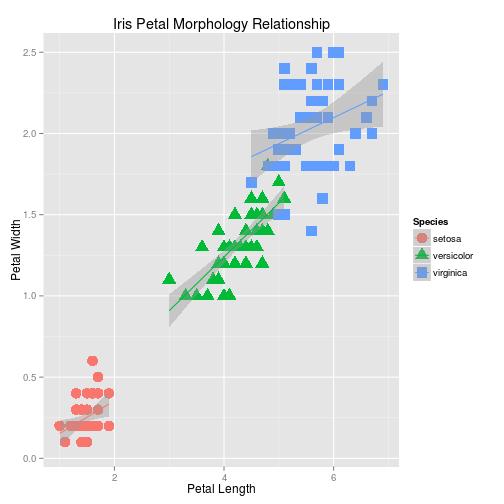
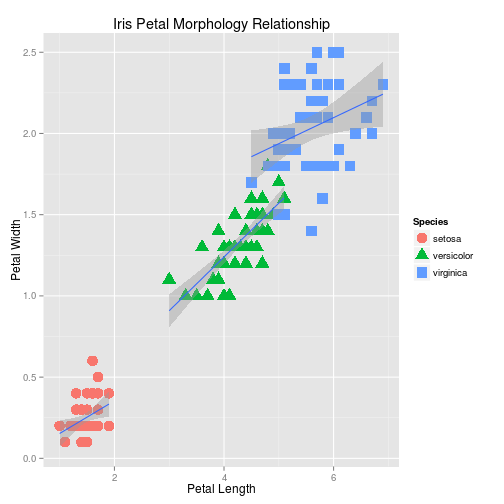
automatic build of site

diff --git a/_posts/2015-01-14-01-Introduction.md b/_posts/2015-01-14-01-Introduction.md
@@ -282,6 +282,8 @@ available.packages()
 update.packages()
 {% endhighlight %}
 
+Lastly, a quick note on pacakges and libraries.  You will often hear people use the terms interchangably.  This is not correct.  A package is what is submitted to CRAN, it is what contains a group of functions that address a common problem, and it is what has allowed R to expand.  A library is, more or less, where you packages are stored.  You have a path to that library and this is where R puts new packages that you install (e.g. via `install.packages()`).  These two terms are related, but most certainly different.  Apologies up front if I slip and use one when I actually mean the other...
+
 ##Help!
 Being able to find help and interpret that help is probably one of the most important skills for learning a new language.  R is no different. Help on functions and packages can be accessed directly from R, can be found on CRAN and other official R resources, searched on Google, found on StackOverflow, or from any number of fantastic online resources. I will cover a few of these here. 
 
@@ -320,6 +322,8 @@ As I mention earlier, there are TOO many resources to mention and everyone has t
 - [Advanced R](http://adv-r.had.co.nz/): Web home of Hadley Wickham's new book.  Gets into more advanced topics, but also covers the basics in a great way.
 - [Why R is Hard To Learn](http://r4stats.com/articles/why-r-is-hard-to-learn/): Long and detailed blog post discussing some of the challenges people often face when learning R.
 - [Other Resources](http://scicomp2014.edc.uri.edu/resources.html): A list I helped compile for a URI Class.
+- [CRAN Cheatsheets](http://cran.r-project.org/doc/contrib/Short-refcard.pdf): A good cheat sheet from the official source
+- [RStudio Cheatsheets](http://www.rstudio.com/resources/cheatsheets/): Additional cheat sheets from RStudio.  I am especially fond of the data wrangling one.
 
 
 

diff --git a/rmd_posts/2015-01-14-01-Introduction.md b/rmd_posts/2015-01-14-01-Introduction.md
@@ -282,6 +282,8 @@ available.packages()
 update.packages()
 {% endhighlight %}
 
+Lastly, a quick note on pacakges and libraries.  You will often hear people use the terms interchangably.  This is not correct.  A package is what is submitted to CRAN, it is what contains a group of functions that address a common problem, and it is what has allowed R to expand.  A library is, more or less, where you packages are stored.  You have a path to that library and this is where R puts new packages that you install (e.g. via `install.packages()`).  These two terms are related, but most certainly different.  Apologies up front if I slip and use one when I actually mean the other...
+
 ##Help!
 Being able to find help and interpret that help is probably one of the most important skills for learning a new language.  R is no different. Help on functions and packages can be accessed directly from R, can be found on CRAN and other official R resources, searched on Google, found on StackOverflow, or from any number of fantastic online resources. I will cover a few of these here. 
 
@@ -320,6 +322,8 @@ As I mention earlier, there are TOO many resources to mention and everyone has t
 - [Advanced R](http://adv-r.had.co.nz/): Web home of Hadley Wickham's new book.  Gets into more advanced topics, but also covers the basics in a great way.
 - [Why R is Hard To Learn](http://r4stats.com/articles/why-r-is-hard-to-learn/): Long and detailed blog post discussing some of the challenges people often face when learning R.
 - [Other Resources](http://scicomp2014.edc.uri.edu/resources.html): A list I helped compile for a URI Class.
+- [CRAN Cheatsheets](http://cran.r-project.org/doc/contrib/Short-refcard.pdf): A good cheat sheet from the official source
+- [RStudio Cheatsheets](http://www.rstudio.com/resources/cheatsheets/): Additional cheat sheets from RStudio.  I am especially fond of the data wrangling one.
 
 
 

diff --git a/_posts/2015-01-15-05-Analyze.md b/_posts/2015-01-15-05-Analyze.md
@@ -38,13 +38,13 @@ xy_tt
 ## 	Welch Two Sample t-test
 ## 
 ## data:  x and y
-## t = -8.224, df = 37.771, p-value = 6.074e-10
+## t = -7.6409, df = 38.691, p-value = 3.024e-09
 ## alternative hypothesis: true difference in means is not equal to 0
 ## 95 percent confidence interval:
-##  -11.917073  -7.208314
+##  -8.872571 -5.157561
 ## sample estimates:
 ## mean of x mean of y 
-##  2.289831 11.852525
+##  2.845283  9.860349
 {% endhighlight %}
 
 `t.test()` can also take a formula specification as input. I mentioned this briefly in the previous lesson.  At it's simplest a formula takes the form of `y ~ x`.  The tilde is used in place of the equals sign.  For a t-test that is all we need to know.  
@@ -255,7 +255,7 @@ summary(lm_aq2)
 ## F-statistic: 54.83 on 3 and 107 DF,  p-value: < 2.2e-16
 {% endhighlight %}
 
-All of your standard modelling approaches (and then some) are available in R including typical variable selection techniques (e.g. stepwise with AIC) and logistic regression. which is implemented with the rest of the generalized linear models in `glm()`.  More involved or newer approaches will be implemented (most likely) with additional packages.
+All of your standard modelling approaches (and then some) are available in R including typical variable selection techniques (e.g. stepwise with AIC) and logistic regression, which is implemented with the rest of the generalized linear models in `glm()`.  Interaction terms can be specified directly in the model, but there are several ways to do so (x*y, x:y, x^y).  Lastly, if you are interested in more involved or newer approaches these will be implemented (most likely) with additional packages and will not be available in base R or `stats`.
 
 
 

diff --git a/rmd_posts/2015-01-15-05-Analyze.md b/rmd_posts/2015-01-15-05-Analyze.md
@@ -38,13 +38,13 @@ xy_tt
 ## 	Welch Two Sample t-test
 ## 
 ## data:  x and y
-## t = -8.224, df = 37.771, p-value = 6.074e-10
+## t = -7.6409, df = 38.691, p-value = 3.024e-09
 ## alternative hypothesis: true difference in means is not equal to 0
 ## 95 percent confidence interval:
-##  -11.917073  -7.208314
+##  -8.872571 -5.157561
 ## sample estimates:
 ## mean of x mean of y 
-##  2.289831 11.852525
+##  2.845283  9.860349
 {% endhighlight %}
 
 `t.test()` can also take a formula specification as input. I mentioned this briefly in the previous lesson.  At it's simplest a formula takes the form of `y ~ x`.  The tilde is used in place of the equals sign.  For a t-test that is all we need to know.  
@@ -255,7 +255,7 @@ summary(lm_aq2)
 ## F-statistic: 54.83 on 3 and 107 DF,  p-value: < 2.2e-16
 {% endhighlight %}
 
-All of your standard modelling approaches (and then some) are available in R including typical variable selection techniques (e.g. stepwise with AIC) and logistic regression. which is implemented with the rest of the generalized linear models in `glm()`.  More involved or newer approaches will be implemented (most likely) with additional packages.
+All of your standard modelling approaches (and then some) are available in R including typical variable selection techniques (e.g. stepwise with AIC) and logistic regression, which is implemented with the rest of the generalized linear models in `glm()`.  Interaction terms can be specified directly in the model, but there are several ways to do so (x*y, x:y, x^y).  Lastly, if you are interested in more involved or newer approaches these will be implemented (most likely) with additional packages and will not be available in base R or `stats`.
 
 
 

diff --git a/_posts/2015-01-15-07-Visualize.md b/_posts/2015-01-15-07-Visualize.md
@@ -128,11 +128,24 @@ And if we are interested in the regressions by group we could do it this way.
 {% highlight r %}
 iris_scatter_lm_group<-iris_scatter+
                         geom_smooth(method="lm", 
-                                    aes(colour=Species,shape=Species))
+                                    aes(group=Species))
 iris_scatter_lm_group
 {% endhighlight %}
 
 ![plot of chunk iris_lm_groups]({{ site.url }}/figure/iris_lm_groups-1.png) 
+
+Or, if we wanted our regression lines to match the color.
+
+
+{% highlight r %}
+iris_scatter_lm_color<-iris_scatter+
+                        geom_smooth(method="lm", 
+                                    aes(color=Species))
+iris_scatter_lm_color
+{% endhighlight %}
+
+![plot of chunk iris_lm_color]({{ site.url }}/figure/iris_lm_color-1.png) 
+
 
 You'll notice that I had to specify the `aes()` again, but for `geom_smooth()`.  We only specified the x and y in the original `ggplot` object, so if want to do something different in the subsequent functions we need to overwrite it for the function in which we want a different mapping (i.e. groups).
 
@@ -342,7 +355,7 @@ tp_chla +
 - [Offical `ggplot2` documentation](http://docs.ggplot2.org/current/): The authoritative source.  Also many great examples.
 
 ###R Data Viz Examples
-- Base examples: [R Gallery]()
+- Cool rCharts examples: [rCharts Gallery](http://rcharts.io/gallery/)
 - ggplot examples: [Google Image Search](http://goo.gl/P0q2Lx)
 - R Data Viz, gone wrong:[Accidental aRt](http://accidental-art.tumblr.com) 
 

diff --git a/rmd_posts/2015-01-15-07-Visualize.md b/rmd_posts/2015-01-15-07-Visualize.md
@@ -128,11 +128,24 @@ And if we are interested in the regressions by group we could do it this way.
 {% highlight r %}
 iris_scatter_lm_group<-iris_scatter+
                         geom_smooth(method="lm", 
-                                    aes(colour=Species,shape=Species))
+                                    aes(group=Species))
 iris_scatter_lm_group
 {% endhighlight %}
 
 ![plot of chunk iris_lm_groups]({{ site.url }}/figure/iris_lm_groups-1.png) 
+
+Or, if we wanted our regression lines to match the color.
+
+
+{% highlight r %}
+iris_scatter_lm_color<-iris_scatter+
+                        geom_smooth(method="lm", 
+                                    aes(color=Species))
+iris_scatter_lm_color
+{% endhighlight %}
+
+![plot of chunk iris_lm_color]({{ site.url }}/figure/iris_lm_color-1.png) 
+
 
 You'll notice that I had to specify the `aes()` again, but for `geom_smooth()`.  We only specified the x and y in the original `ggplot` object, so if want to do something different in the subsequent functions we need to overwrite it for the function in which we want a different mapping (i.e. groups).
 
@@ -342,7 +355,7 @@ tp_chla +
 - [Offical `ggplot2` documentation](http://docs.ggplot2.org/current/): The authoritative source.  Also many great examples.
 
 ###R Data Viz Examples
-- Base examples: [R Gallery]()
+- Cool rCharts examples: [rCharts Gallery](http://rcharts.io/gallery/)
 - ggplot examples: [Google Image Search](http://goo.gl/P0q2Lx)
 - R Data Viz, gone wrong:[Accidental aRt](http://accidental-art.tumblr.com) 
 

diff --git a/_posts/2015-01-14-02-Get.md b/_posts/2015-01-14-02-Get.md
@@ -1079,7 +1079,7 @@ install.packages("gdata")
 {% highlight text %}
 ## 
 ## The downloaded source packages are in
-## 	'/tmp/RtmpBjVXPa/downloaded_packages'
+## 	'/tmp/RtmpgepLWe/downloaded_packages'
 {% endhighlight %}
 
 
@@ -1156,7 +1156,7 @@ From here on out I hope to have these exercises begin to build on each other. We
 
 1. Create a new script in RStudio.  Name it "nla_analysis.R"
 2. As you write the script comment as you go.
-3. Add commands to your script that creates two data frames: One named `nla_wq` that contains all of the data located at http://bit.ly/nla_wq and another named `nla_sites` from http://bit.ly/nla_sites.
+3. Add commands to your script that creates two data frames: One named `nla_wq` that contains all of the data located at http://bit.ly/nla_wq and another named `nla_sites` from http://bit.ly/nla_sites.  Both of these links point to .csv files on the NLA site.
 4. Add commands to your script that will provides details on the structure (hint: `str`) of each newly created data frame
 5. Run the script and make sure it doesn't throw any errors and you do in fact get the two data frames.
 6. If you still have some time, explore the data frames using some of the commands we covered.  This part does not need to be included in the script.

diff --git a/rmd_posts/2015-01-14-02-Get.md b/rmd_posts/2015-01-14-02-Get.md
@@ -1079,7 +1079,7 @@ install.packages("gdata")
 {% highlight text %}
 ## 
 ## The downloaded source packages are in
-## 	'/tmp/RtmpBjVXPa/downloaded_packages'
+## 	'/tmp/RtmpgepLWe/downloaded_packages'
 {% endhighlight %}
 
 
@@ -1156,7 +1156,7 @@ From here on out I hope to have these exercises begin to build on each other. We
 
 1. Create a new script in RStudio.  Name it "nla_analysis.R"
 2. As you write the script comment as you go.
-3. Add commands to your script that creates two data frames: One named `nla_wq` that contains all of the data located at http://bit.ly/nla_wq and another named `nla_sites` from http://bit.ly/nla_sites.
+3. Add commands to your script that creates two data frames: One named `nla_wq` that contains all of the data located at http://bit.ly/nla_wq and another named `nla_sites` from http://bit.ly/nla_sites.  Both of these links point to .csv files on the NLA site.
 4. Add commands to your script that will provides details on the structure (hint: `str`) of each newly created data frame
 5. Run the script and make sure it doesn't throw any errors and you do in fact get the two data frames.
 6. If you still have some time, explore the data frames using some of the commands we covered.  This part does not need to be included in the script.

diff --git a/_posts/2015-01-14-04-Explore.md b/_posts/2015-01-14-04-Explore.md
@@ -151,6 +151,8 @@ plot(iris$Petal.Width,iris$Petal.Length, main="Petal Dimensions")
 abline(h=4)
 #a vertical line
 abline(v=1.5)
+#Line with a slope and intercept
+abline(0,1)
 {% endhighlight %}
 
 ![plot of chunk abline_examp]({{ site.url }}/figure/abline_examp-1.png) 

diff --git a/rmd_posts/2015-01-14-04-Explore.md b/rmd_posts/2015-01-14-04-Explore.md
@@ -151,6 +151,8 @@ plot(iris$Petal.Width,iris$Petal.Length, main="Petal Dimensions")
 abline(h=4)
 #a vertical line
 abline(v=1.5)
+#Line with a slope and intercept
+abline(0,1)
 {% endhighlight %}
 
 ![plot of chunk abline_examp]({{ site.url }}/figure/abline_examp-1.png) 
